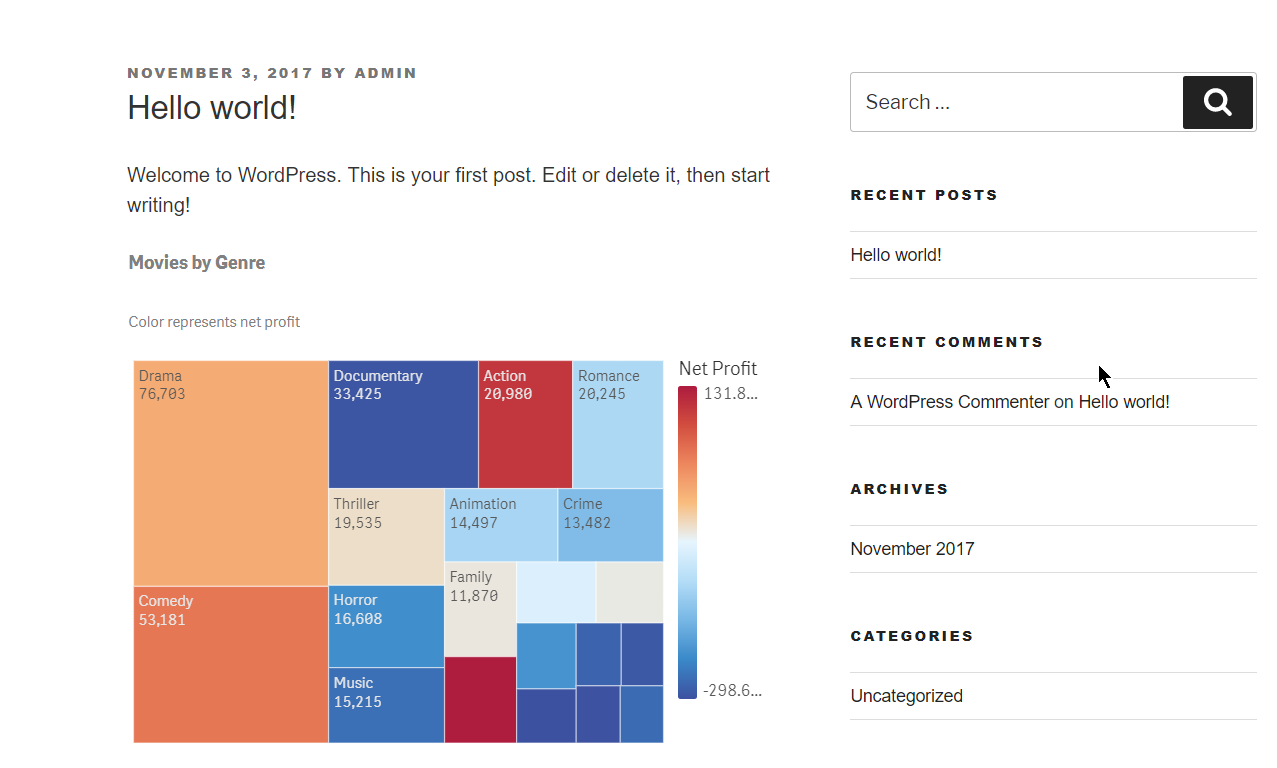
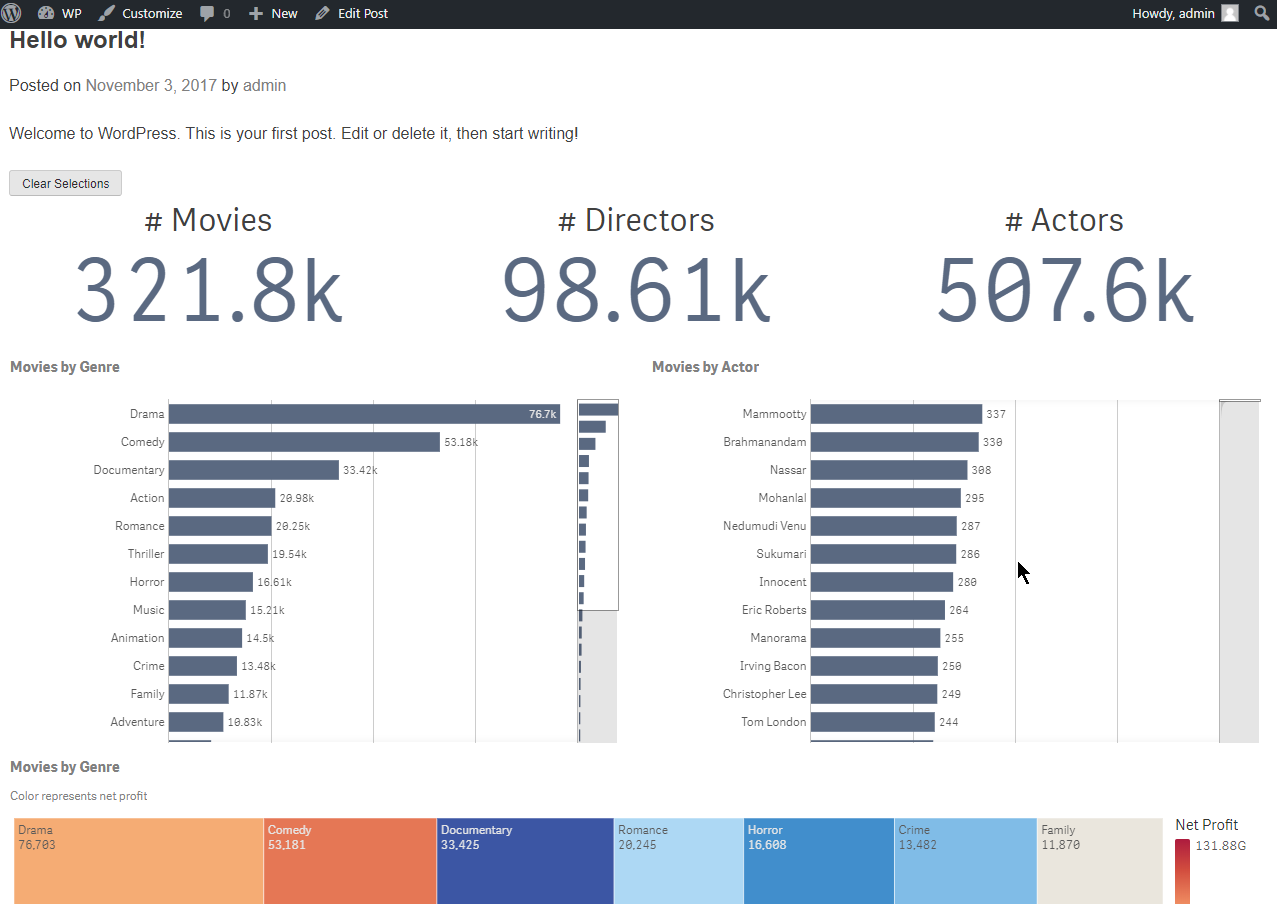
add clear selections button

diff --git a/index.js b/index.js
@@ -23,4 +23,7 @@ require( ["js/qlik"], function ( qlik ) {
             viz.show(obj.id, { noInteraction: obj.noInteraction })
         })
     })
+    $('#qlik-sense-clear-selections').on('click', function() {
+        app.clearAll();
+    })
 } );

diff --git a/qlik-sense.php b/qlik-sense.php
@@ -8,12 +8,13 @@
 		- Activate from the admin panel
 		- Go to "Qlik Sense" settings and add the host, virtual proxy and the app id
 		- then add the shortcode into your posts "[sense-object qvid="ZwjJQq" height="400" nointeraction="true"]"
-	Version: 1.0.3
+		- YOu can also add the Clear Selections button [sense-object-clear-selections title="Clear Selections"]
+	Version: 1.0.4
 	Author: yianni.ververis@qlik.com
 	License: MIT
 	*/
 
-    define( 'QLIK_SENSE_PLUGIN_VERSION', '1.0.3' );
+    define( 'QLIK_SENSE_PLUGIN_VERSION', '1.0.4' );
     define( 'QLIK_SENSE_PLUGIN_MINIMUM_WP_VERSION', '4.0' );
     define( 'QLIK_SENSE_PLUGIN_PLUGIN_DIR', plugin_dir_url( __FILE__ ) );
 
@@ -28,8 +29,10 @@
 	// Get the CSS and JS from Sense
     add_action( 'wp_enqueue_scripts', 'my_enqueued_assets' );
     function my_enqueued_assets() {
-        wp_enqueue_style( 'qlik-sense-styles', 'https://'.esc_attr( get_option('qs_host') ).'/resources/autogenerated/qlik-styles.css' );
-		wp_enqueue_script( 'qlik-sense-require', 'https://'.esc_attr( get_option('qs_host') ).'/resources/assets/external/requirejs/require.js', array(), '1.0.0' );
+		wp_enqueue_style( 'qlik-sense-styles', 'https://'.esc_attr( get_option('qs_host') ).'/resources/autogenerated/qlik-styles.css' );
+		if( ! wp_script_is( 'qlik-sense-require', 'enqueued' ) ) {
+			wp_enqueue_script( 'qlik-sense-require', 'https://'.esc_attr( get_option('qs_host') ).'/resources/assets/external/requirejs/require.js', array(), '1.0.0' );
+		}
 
 		// Register the script
 		wp_register_script( 'qlik-sense-js', QLIK_SENSE_PLUGIN_PLUGIN_DIR . 'index.js', array('jquery'), '1.0.0' );
@@ -82,8 +85,15 @@
 	}
 
 	// Create the Html Snippet for use inside the posts/pages
+	// [sense-object qvid="ZwjJQq" height="400" nointeraction="true"]
 	function sense_object_func( $atts ) {
 		return "<div id=\"{$atts['qvid']}\" data-qvid=\"{$atts['qvid']}\" data-nointeraction=\"{$atts['nointeraction']}\" class=\"wp-qs\" style=\"height:{$atts['height']}px\"></div>";
 	}
 	add_shortcode( 'sense-object', 'sense_object_func' );
+	
+	// [sense-object-clear-selections title="Clear Selections"]
+	function sense_object_clear_selections_func( $atts ) {
+		return "<button id=\"qlik-sense-clear-selections\">{$atts['title']}</button>";
+	}
+	add_shortcode( 'sense-object-clear-selections', 'sense_object_clear_selections_func' );
 ?>

diff --git a/README.md b/README.md
@@ -11,6 +11,7 @@
     - qvid: Is the object id as found in the "dev-hub/single-configurator"
     - height: The height of the visualization in pixels
     - nointeraction: Add this if you want to disable interactions. If you want the objects to have interaction, you can just omit this.
+- You can also add the clear selections button "[sense-object-clear-selections title="Clear Selections"]"
 ![Qlik Sense - Edit Post](/EditPost.png?raw=true "Qlik Sense - Edit Post")
 - The final page should look like this
 ![Qlik Sense - Hello World](/Helloworld.png?raw=true "Qlik Sense - Hello World")
